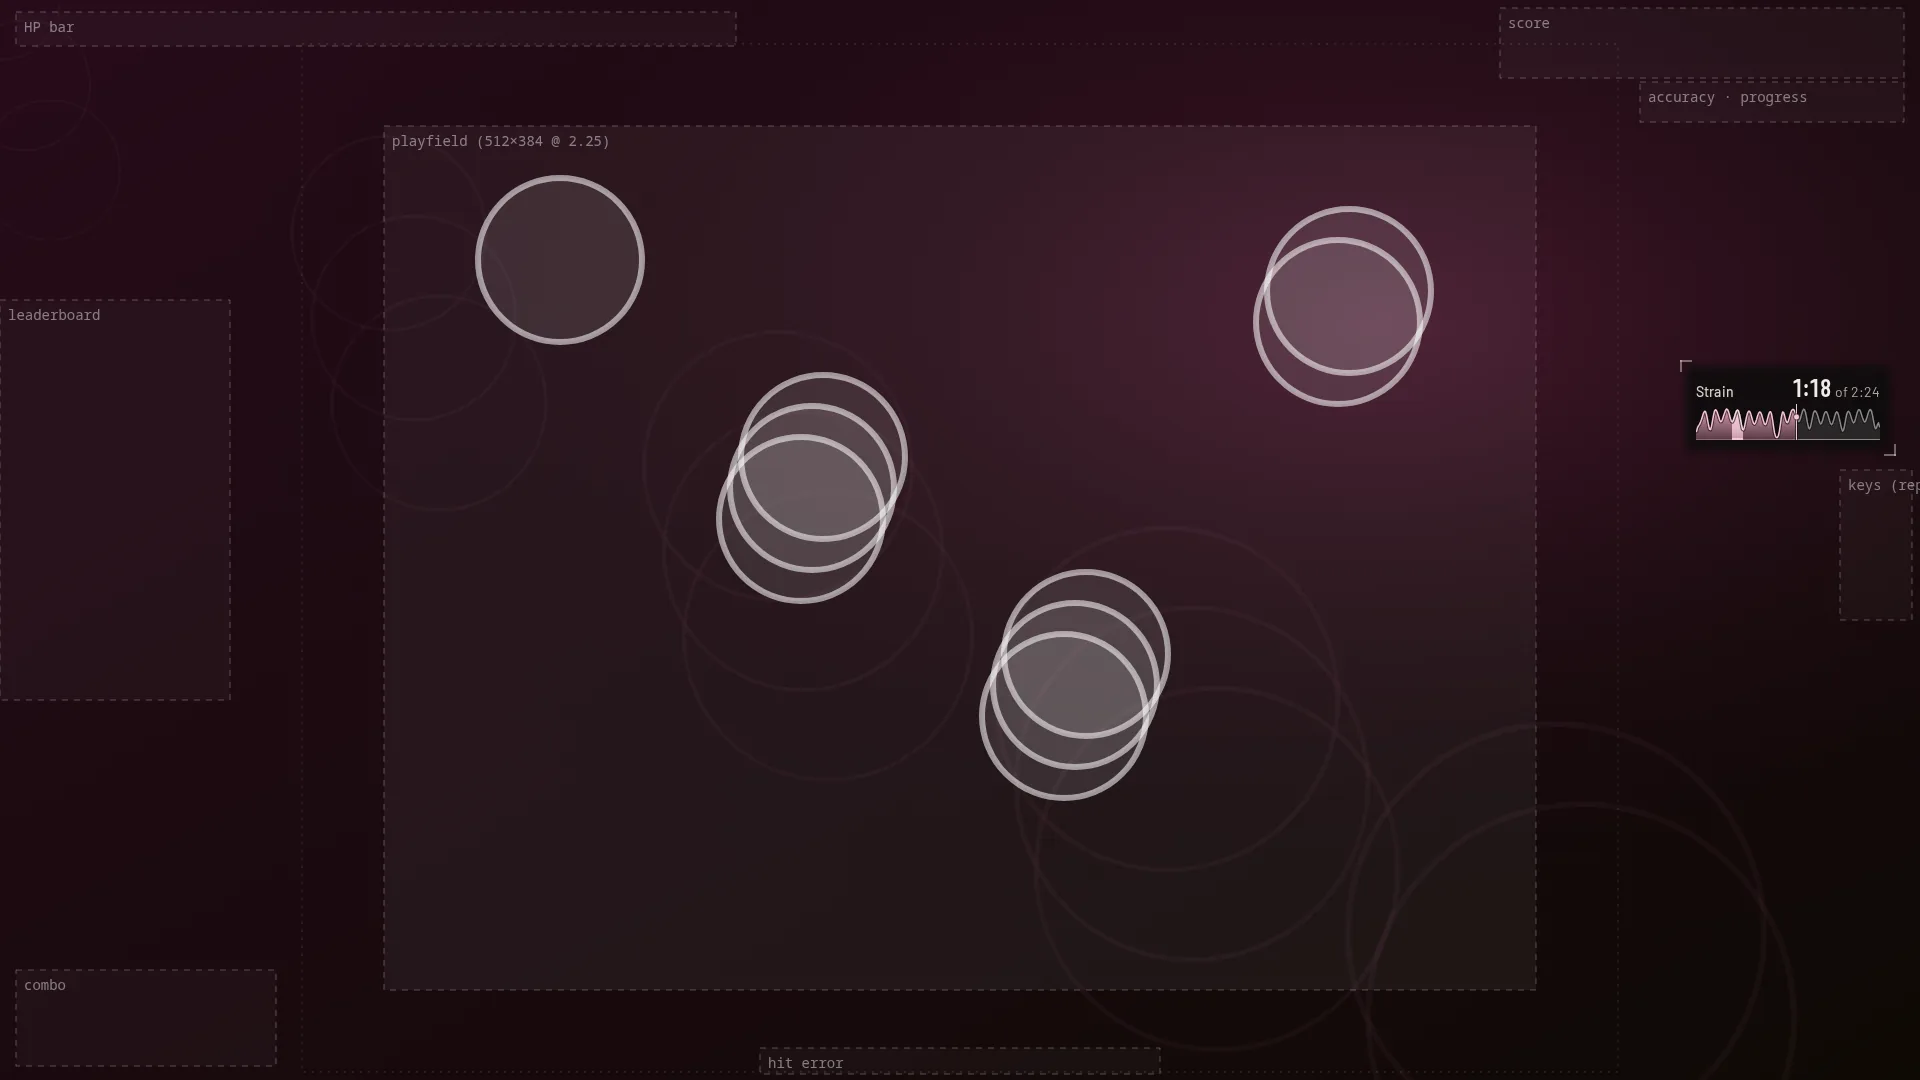
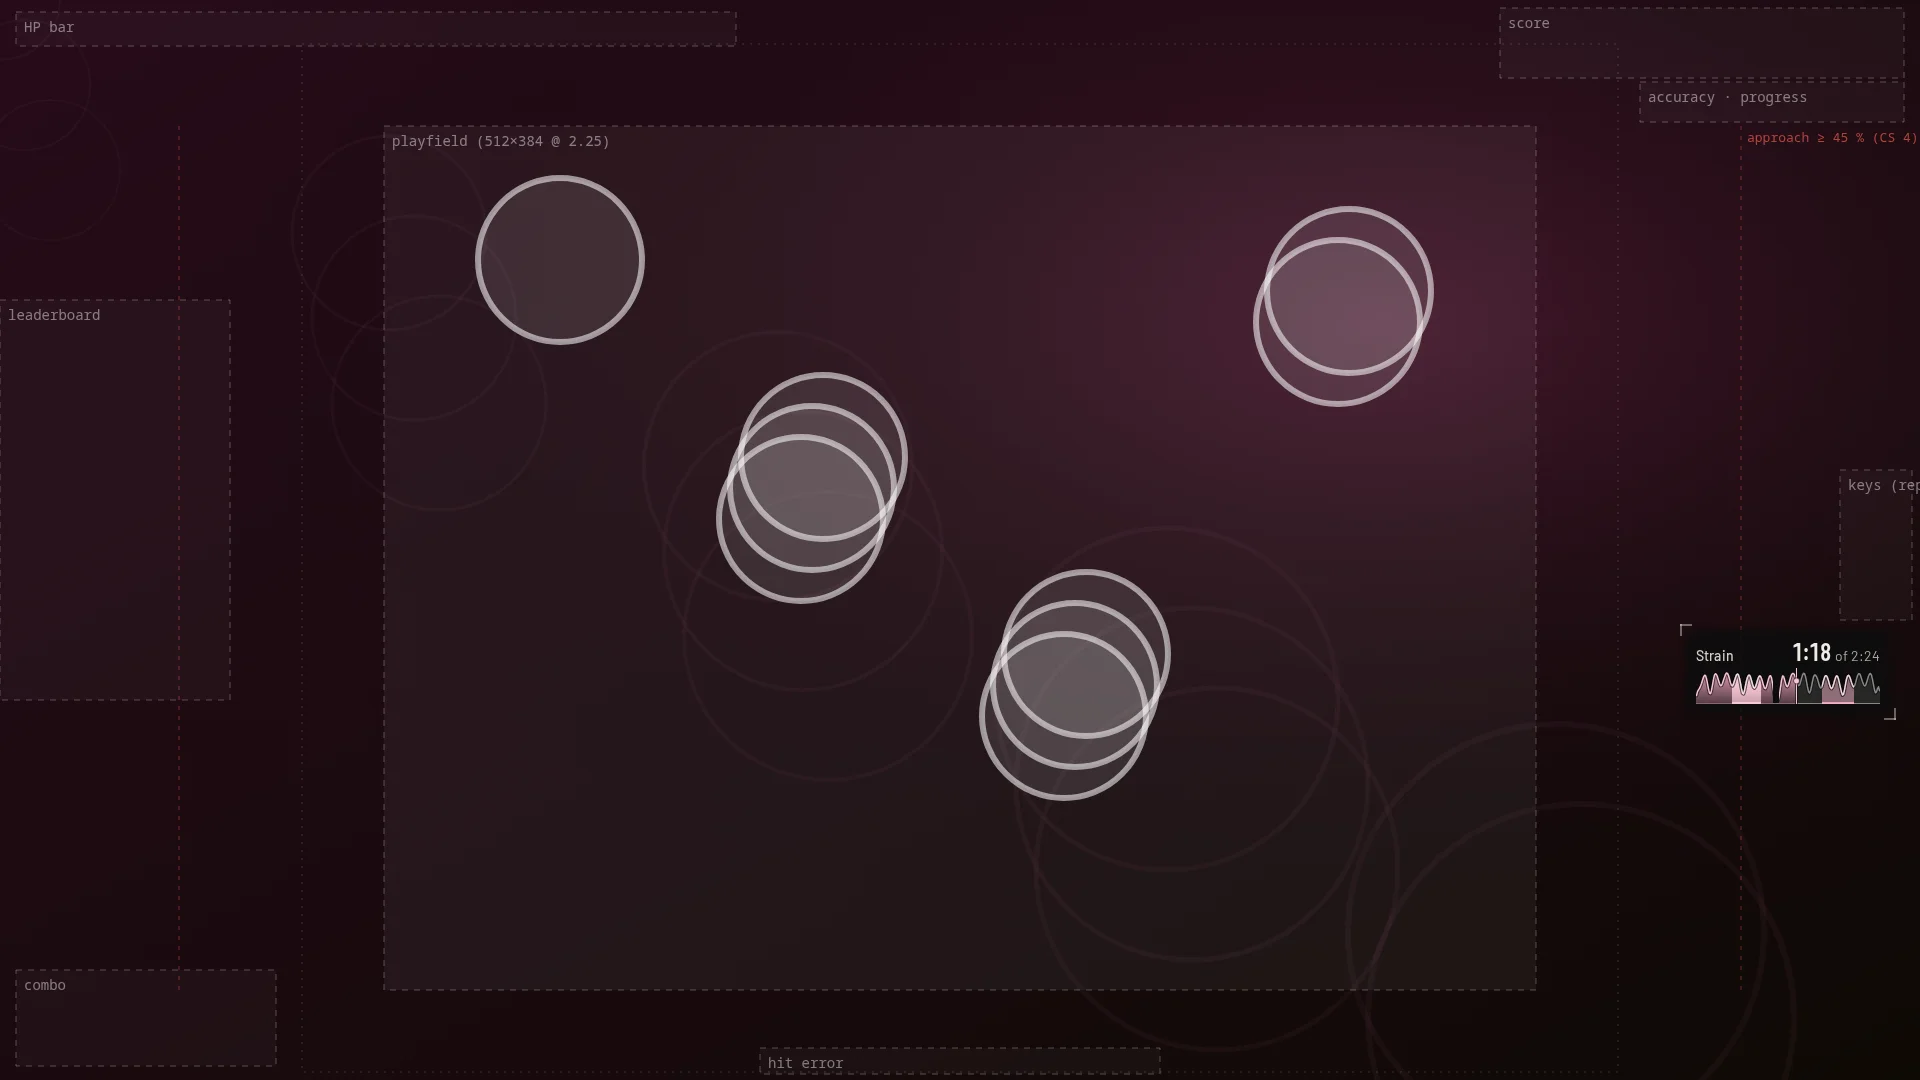
dev(mock): serve a synthesized .osu at /files/beatmap/file (kiai, breaks) in vosu and tosu compat; strain-graph preview with kiai bands

Changed region(s): [[0.875, 0.3361, 1.0, 0.4278], [0.875, 0.5806, 1.0, 0.6722], [0.9062, 0.1222, 0.9375, 0.1528]]

diff --git a/dev/mock-vosu.js b/dev/mock-vosu.js
@@ -774,6 +774,48 @@ function background() {
   return `<svg xmlns="http://www.w3.org/2000/svg" width="1920" height="1080" viewBox="0 0 1920 1080"><defs><linearGradient id="g" x1="0" y1="0" x2="1" y2="1"><stop offset="0" stop-color="hsl(${hue} 55% 22%)"/><stop offset="1" stop-color="hsl(${(hue + 60) % 360} 45% 9%)"/></linearGradient><radialGradient id="r" cx=".72" cy=".3" r=".6"><stop offset="0" stop-color="hsl(${hue} 80% 62% / .55)"/><stop offset="1" stop-color="transparent"/></radialGradient></defs><rect width="1920" height="1080" fill="url(#g)"/><rect width="1920" height="1080" fill="url(#r)"/>${Array.from({ length: 14 }, (_, i) => `<circle cx="${(i * 389) % 1920}" cy="${(i * 233) % 1080}" r="${60 + (i * 37) % 180}" fill="none" stroke="hsl(${hue} 70% 70% / .12)" stroke-width="${2 + i % 5}"/>`).join('')}</svg>`;
 }
 
+/**
+ * The current map's .osu, as vosu (and tosu) serve it at /files/beatmap/file. Its kiai and break
+ * sections match the live /beatmap/isKiai and /beatmap/isBreak flags above: a red line at the first
+ * object, inherited points switching kiai (effects bit 1) on at 30 s and 100 s and off at 52 s and
+ * 125 s, and one break 61.5–66.5 s. No hit objects: no overlay reads them from the file.
+ */
+function beatmapFile() {
+  const { mode } = config;
+  const map = MAPS[mode];
+  const inherited = (time, kiai) => `${time},-100,4,2,0,70,0,${kiai ? 1 : 0}`;
+  return [
+    'osu file format v14',
+    '',
+    '[General]',
+    `Mode: ${MODE_NUMBER[mode]}`,
+    '',
+    '[Metadata]',
+    `Title:${map.title}`,
+    `Artist:${map.artist}`,
+    `Creator:${map.mapper}`,
+    `Version:${mode === 'mania' ? `${config.keys}K ${map.version}` : map.version}`,
+    `BeatmapID:${129891 + MODE_NUMBER[mode]}`,
+    'BeatmapSetID:39804',
+    '',
+    '[Difficulty]',
+    `CircleSize:${mode === 'mania' ? config.keys : map.cs}`,
+    `OverallDifficulty:${map.od}`,
+    '',
+    '[Events]',
+    '//Break Periods',
+    '2,61500,66500',
+    '',
+    '[TimingPoints]',
+    `${scenario.first},${scenario.beat},4,2,0,70,1,0`,
+    inherited(30000, true),
+    inherited(52000, false),
+    inherited(100000, true),
+    inherited(125000, false),
+    '',
+  ].join('\r\n');
+}
+
 async function assets(path) {
   if (VOSU_ASSETS) {
     const file = normalize(join(VOSU_ASSETS, path.slice('/assets/'.length)));
@@ -868,6 +910,8 @@ Bun.serve({
       return Response.json({ md5: `mock${config.mode}${config.keys}`.padEnd(32, '0'), mapTimingPoints: [{ startTime: scenario.first, beatLength: scenario.beat }] });
     }
     if (path === '/files/beatmap/background') return new Response(background(), { headers: { 'content-type': 'image/svg+xml', 'cache-control': 'no-store' } });
+    // vosu and tosu both serve the current map's .osu here (compat=tosu too).
+    if (path === '/files/beatmap/file') return new Response(beatmapFile(), { headers: { 'content-type': 'text/plain; charset=utf-8', 'cache-control': 'no-store' } });
     if (path.toLowerCase() === '/files/skin/skin.ini') {
       // vosu serves the current skin's files; the mock serves a skin.ini placed beside the backdrops.
       const file = STAGE_BACKDROPS ? join(STAGE_BACKDROPS, 'skin.ini') : '';

diff --git a/overlays/strain-graph/overlay.js b/overlays/strain-graph/overlay.js
@@ -245,7 +245,7 @@ function observe(key, t, kiai, brk) {
 // renderer serves it too). Its [TimingPoints] effects (bit 1 = kiai) and [Events] breaks are read
 // the way vosu reads them for /beatmap/isKiai and /beatmap/isBreak, so the drawn sections and the
 // live flags agree. One fetch and parse per map checksum, nothing per frame; a missing or failed
-// file (an older server, the dev mock) leaves the learning path above in charge.
+// file (an older server) leaves the learning path above in charge.
 const MAP_FILE = '/files/beatmap/file';
 const fileMarks = new Map(); // checksum → { kiai, brk } | null (no usable file); the last 16 maps
 const fileLoad = { key: '', attempt: 0, timer: 0 };

diff --git a/README.md b/README.md
@@ -126,7 +126,7 @@ python scripts/sync_shared.py --check                           # CI: fail on dr
 
 `metadata.txt` declares the default box as `resolution = [w,h]` and the suggested spot per ruleset as `placement = {"<mode>":[x,y,w,h]}` (`[x,y]` takes the default box). `x`/`y` are pixels on a 1920×1080 screen or anchors: `left+N`, `right-N`, `center±N`, `top+N`, `bottom-N`; for mania `stage-left-N`, `stage-right+N`, `stage-center±N`; for taiko `lane-top-N`, `lane-bottom+N`. Stage and lane anchors resolve per client (docs/overlay-system.md "Anchors").
 
-`dev/mock-vosu.js` is a development-only stand-in for the vosu routes overlays use (`/websocket/v2/subscribe`, `/websocket/commands`, `/json/v2`, `/files/beatmap/background`, `/files/skin/`), driven by a deterministic synthetic attempt in any ruleset, so overlays can be designed without osu! running. Its values are plausible, not real. Overlay pages get 404 for `/assets/` so a missing bundled file shows up here rather than in the renderer; the dev pages read `/assets/` from a running vosu or `VOSU_ASSETS=<vosu>/assets/server`. `VOSU_STAGE_BACKDROPS=<dir>` puts local captures (not committed) behind the stage: stable skin frames (`osu.png`, `mania-4k.png`, …) and, for `client=lazer`, `<name>-lazer.png` (`osu-lazer.png`, `mania-7k-lazer.png`, …); without a lazer frame the stage draws lazer's geometry as a wireframe.
+`dev/mock-vosu.js` is a development-only stand-in for the vosu routes overlays use (`/websocket/v2/subscribe`, `/websocket/commands`, `/json/v2`, `/json/sc`, `/files/beatmap/background`, `/files/beatmap/file`, `/files/skin/`), driven by a deterministic synthetic attempt in any ruleset, so overlays can be designed without osu! running. Its values are plausible, not real; the `.osu` at `/files/beatmap/file` carries only the scenario's metadata, timing points (kiai 30–52 s and 100–125 s) and break (61.5–66.5 s), matching the live `isKiai`/`isBreak` flags, and is served with `compat=tosu` too, as tosu serves it. Overlay pages get 404 for `/assets/` so a missing bundled file shows up here rather than in the renderer; the dev pages read `/assets/` from a running vosu or `VOSU_ASSETS=<vosu>/assets/server`. `VOSU_STAGE_BACKDROPS=<dir>` puts local captures (not committed) behind the stage: stable skin frames (`osu.png`, `mania-4k.png`, …) and, for `client=lazer`, `<name>-lazer.png` (`osu-lazer.png`, `mania-7k-lazer.png`, …); without a lazer frame the stage draws lazer's geometry as a wireframe.
 
 ```sh
 bun dev/mock-vosu.js --port 24100
